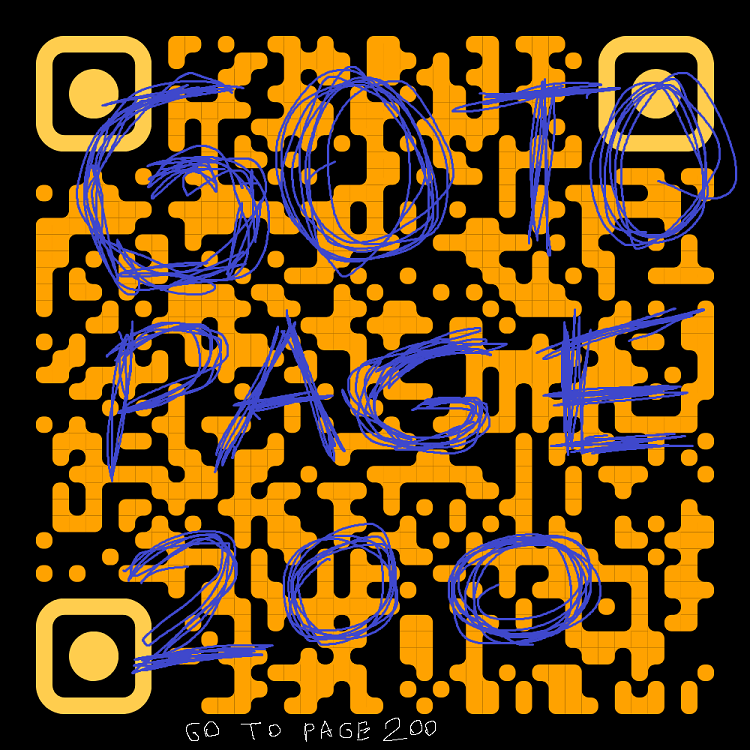
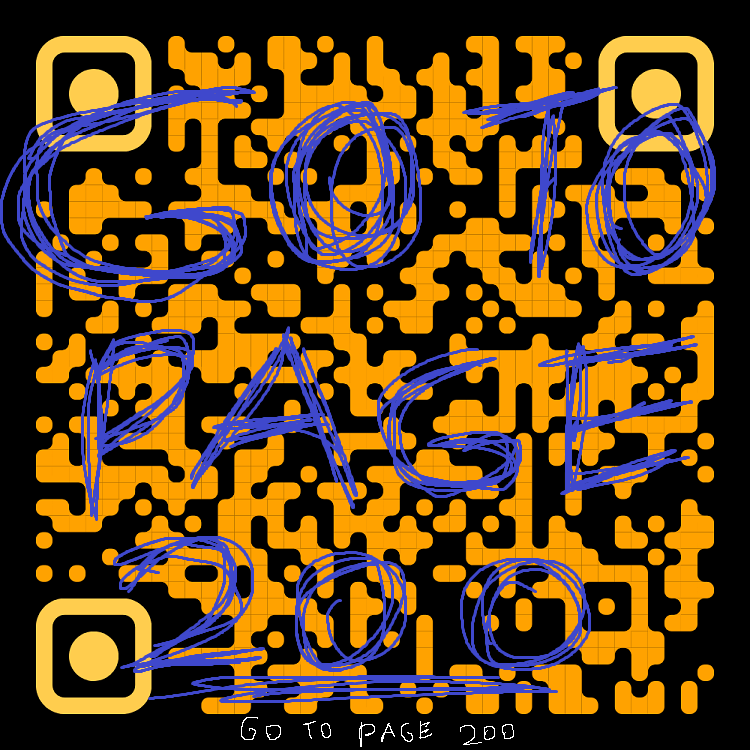
Fixed QR code.

diff --git a/padlock/page/34/index.html b/padlock/page/34/index.html
@@ -19,7 +19,7 @@
                     <nav id="qrCodeContainer" class="level">
                         <div class="level-item">
                             <figure class="image">
-                                <img id="qrCode" src="../../../resources/media/images/qrCode1.png" alt="QR Code"/><!--Go to page 200-->
+                                <img id="qrCode" src="../../../resources/media/images/qrCode1_v2.png" alt="QR Code"/><!--Go to page 200-->
                             </figure>
                         </div>
                     </nav>
